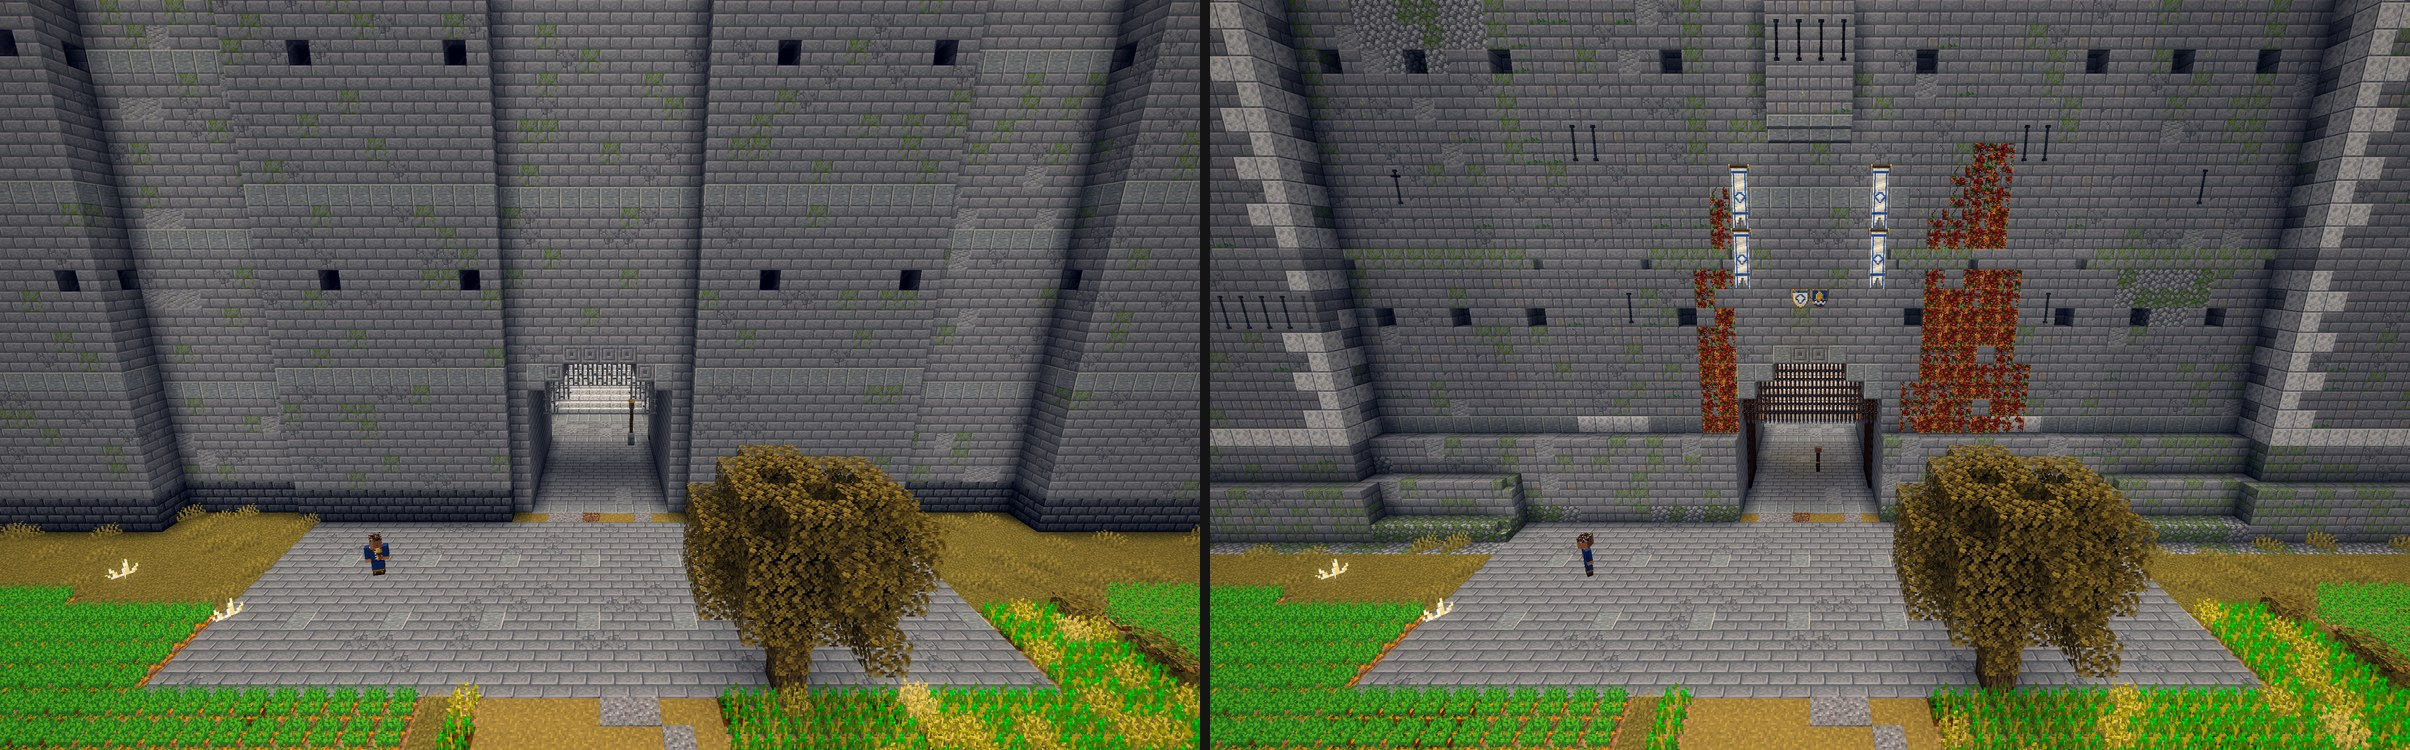
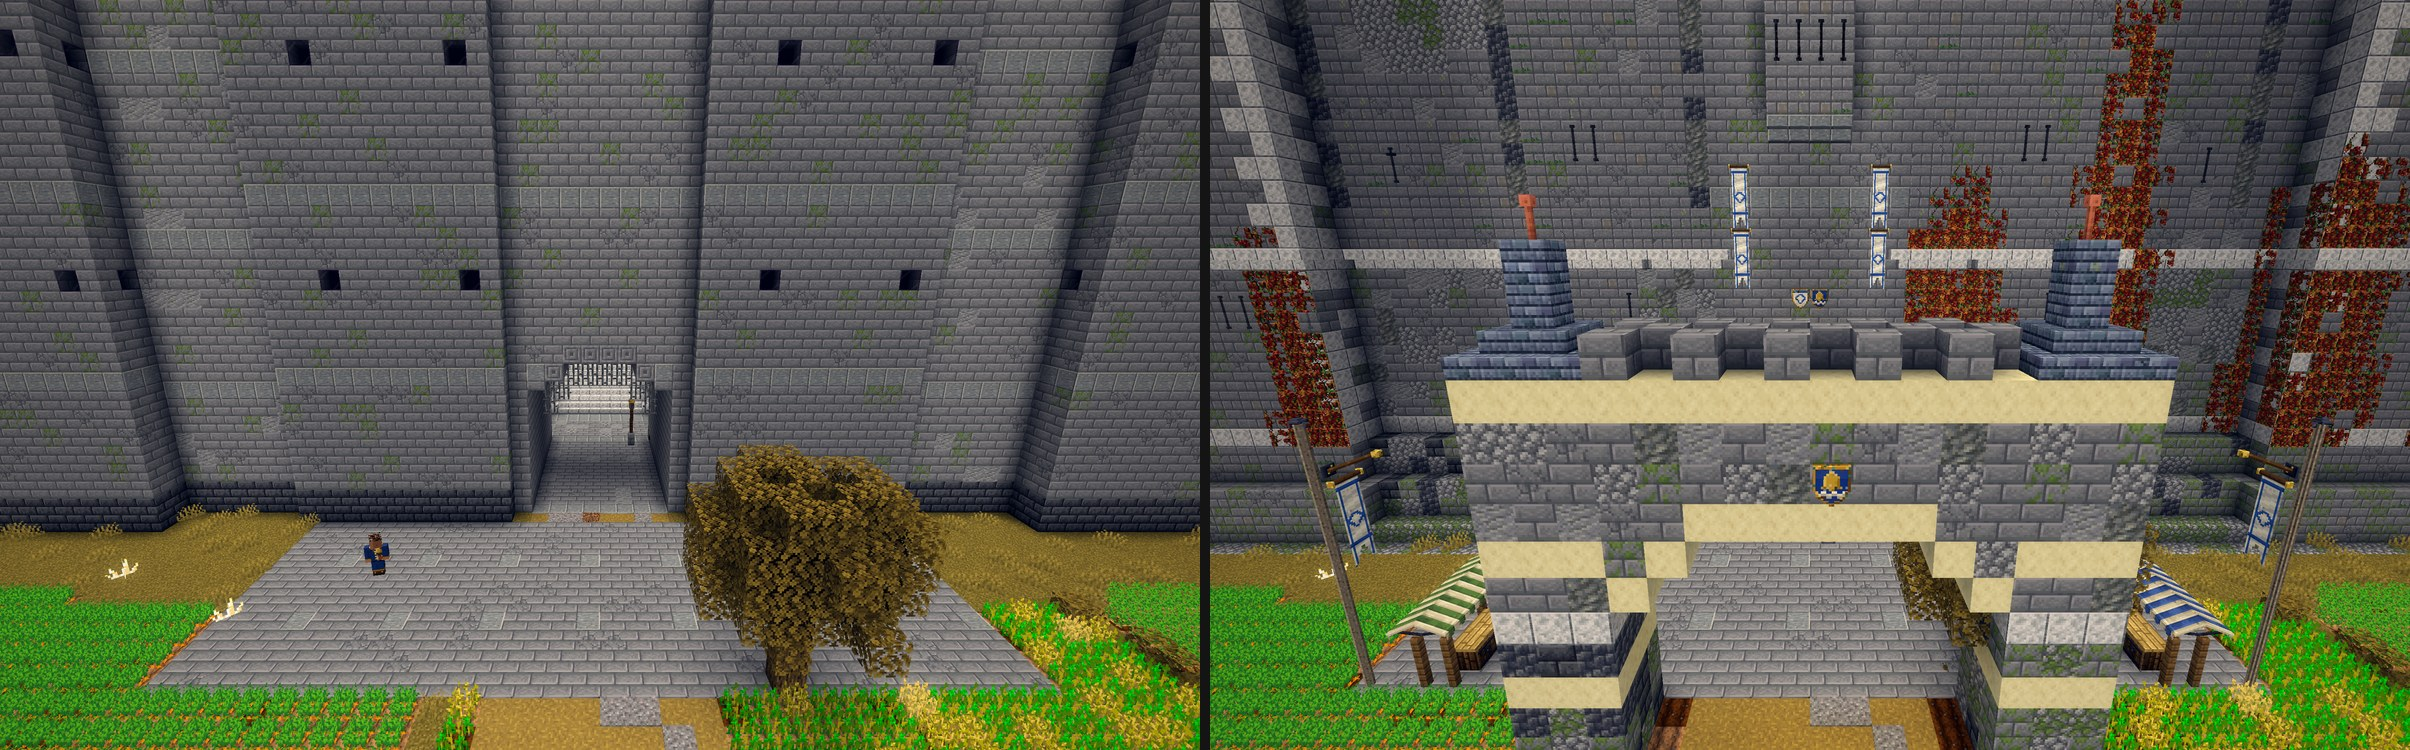
Carillon M4 Walls: the third pass's shots (the approach, the yard and barbican, the Watch on his round, the faces in their dressings) and M4-walls.md's third pass

diff --git a/docs/carillon/milestones/M4-walls.md b/docs/carillon/milestones/M4-walls.md
@@ -86,6 +86,27 @@ nearest node and never an event's random junction. Old worlds keep their old wal
 
 No block entities, no loot.
 
+## Third pass (after the orchestrator's read of the first merge: "not on par yet")
+- **Colour and material by height.** A dark foot (cobbled deepslate, mossy cobble, deepslate bricks), rubble infill up to
+  the first course (stone bricks with cobble, andesite and tuff), dressed ashlar above with a tone per band. Warm
+  dressings in the district's stone (sandstone; the Terrace's diorite and calcite, the Works' brick) on the courses, the
+  bands behind them, the buttress caps, the quoins of the buttresses' lower stages, the corbels and the merlon caps, and
+  round the towers. The inner face's panels are plastered in the district's colour (white, cream, ochre, clay) where
+  lean-tos stood, with the render fallen away in patches. Dark drip streaks run under the spouts.
+- **Depth and shadow.** Buttresses step back from three deep at row 9, to two at 21, to one at 33. Their pitch follows the
+  side's slant (8 on the axis sides, 10 on the diagonals, 12 on the rest), for a calmer rhythm on the stepped faces.
+  Machicolations are three deep (corbels at rows 33, 34 and 35), with the slots open the full depth of the first two.
+  One tall loop per bay replaces the dots, and putlog holes stay only under the scaffold.
+- **Banners nine tall:** on every tower's field face, and down the curtain in every third bay, between the courses.
+- **Ivy as noisy patches** rooted at the foot. It wraps round the buttresses and spills over the courses (it clings to a
+  course's lip). Inside, it grows from the street up the piers and into the panels.
+- **The High Gate's yard and approach:** two stalls facing the road, a well, a hay cart and a cart of crates. Flag masts
+  stand at the yard's corners, keeping the Living Wilds' three spots clear. A barbican arch over the road has slate-capped
+  piers, the city's arms and a lantern hung beneath. Along all three roads in, lamp posts and flag masts with district
+  banners alternate every 14.
+- **The Watch on his round:** `/awaken citizens show wall_watch[_front|_side]` stands on the walk near a night watchman.
+  The tour catches him (walls_watch_round*: lantern, halberd, calling the hour, a dog at his heels).
+
 ## Tests (GameTests, one per mechanism; `-Ptests=city_wall_`)
 - `city_wall_grid`: every hold on the wall's faces below the walk sits in an odd row (9,841 holds), the outer courses
   (896 cells) and the inner (529) are whole along every clear stretch, and 23 of 24 sides have a climb line from the
@@ -113,11 +134,10 @@ Three light tours of `tools/autopilot/carillon-m4walls.txt` (B3a's world, seed a
 - `sheet_walls.jpg`, every shot of the last tour; `kit_sheet.png` and `kit_mock.png`, the wall kit.
 
 ## Where it still falls short
-- Ivy on the outer north faces is framed by the buttresses and cut by the courses, so a big patch still reads
-  rectangular from the fields; the inner panels' ivy reads better.
 - Close under the inner face of a slanted side, the panels' heads, the corbel table and the band step with the raster and
   read heavy.
-- The Watch's round wasn't seen in a shot (the tours fly as spectators at fixed hours); `citizens_day` walks it.
+- The Works' stretch in brick dressings is the busiest face of the ring: red courses and bands read strongly against the
+  grey; it's deliberate (the industrial district) but could take a lighter hand.
 
 ## CI
 GameTests on every push of `carillon/m4-walls`: 40217807842 (first pass) green, 40221579843 (the Watch's round, second
